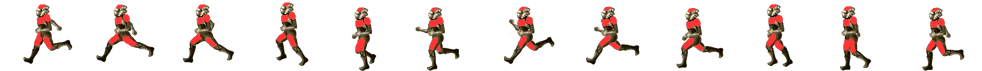
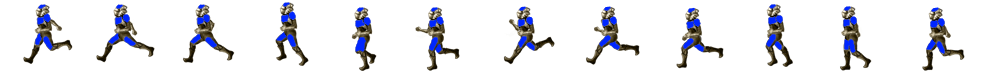
abandon

diff --git a/public/js/Sprite.js b/public/js/Sprite.js
@@ -1,9 +1,13 @@
 var Sprite = function(data){
-	// data = {imgL,imgW, nameL,nameW, startx, starty, width, height, animation, fps}
+	// data = {imgL,imgW, nameL,nameW,team, startx, starty, width, height, animation, fps}
+	if(data.team == 0){
+		data.team ="";
+	}
+	this.team = data.team;
 	this.imgL = new Image();
-	this.imgL.src =  data.imgL;
+	this.imgL.src =  data.imgL+data.team+".png";
 	this.imgW = new Image();
-	this.imgW.src = data.imgW;
+	this.imgW.src = data.imgW+data.team+".png";
 	this.direc;
 	this.name = data.name;
 	this.startX = data.x || 0;
@@ -17,9 +21,11 @@ var Sprite = function(data){
 	this.lastChangeTransiTime = 0;
 }
 
-Sprite.prototype.draw = function(ctx, x, y,precX,precY, width, height){
-	//console.log(x + " "+y+" "+precX+" "+precY);
-	
+Sprite.prototype.draw = function(ctx, x, y,precX,precY,team, width, height){
+	//console.log(this.team + " " + team);
+	if(team != this.team){
+		this.changeTeam(team);
+	}
 		if(Date.now() > this.lastChangeTransiTime + 1000/this.fps){
 			//changement de transition
 			this.index++;
@@ -61,14 +67,11 @@ Sprite.prototype.draw = function(ctx, x, y,precX,precY, width, height){
 
 }
 
-Sprite.prototype.changeImgL = function(img){
-	var image = new Image();
-	image.src = img;
-	this.imgL = image;
-}
-
-Sprite.prototype.changeImgW = function(img){
-	var image = new Image();
-	image.src = img;
-	this.imgW = image;
+Sprite.prototype.changeTeam = function(team){
+	this.imgL.src = this.imgL.src.replace(".png",team+".png");
+	this.imgW.src = this.imgW.src.replace(".png",team+".png");
+	this.team = team;
+	if(this.team == 2){
+		this.direc = "L";
+	}
 }

diff --git a/server.js b/server.js
@@ -1,6 +1,6 @@
-var app = require('express')();
-var server = require('http').Server(app);
-var io = require('socket.io')(server);
+var app = require('express')();
+var http = require('http').Server(app);
+var io = require('socket.io')(http);
 var uuid = require('node-uuid');
 var fs = require('fs');
 
@@ -15,8 +15,11 @@ eval(fs.readFileSync('./public/js/Maths.js')+'');
 eval(fs.readFileSync('./public/js/Spell.js')+'');
 eval(fs.readFileSync('./public/js/Sprite.js')+'');
 
+<<<<<<< HEAD
 server.listen(80);
 
+=======
+>>>>>>> parent of a496acf... maj port server
 app.get('/',function(req, res){
 	res.sendFile(__dirname + '/public/index.html');
 });
@@ -26,7 +29,7 @@ app.get( '/*' , function( req, res, next ) {
 	res.sendFile( __dirname + '/' + file );
 });
 
-
+http.listen(1321, function(){});
 
 var isServer = true;
 var fps = 40;

diff --git a/public/js/Player.js b/public/js/Player.js
@@ -34,12 +34,16 @@ var Player = function(json){
 		}
 	};
 
-
+	var t;
+	if(this.team==0){
+		t ="1";
+	}
 	var sp = {
-		imgL: "public/img/run2L"+this.team+".png",
-		imgW: "public/img/run2W"+this.team+".png",
-		nameL: "run2L"+this.team+".png",
-		nameW: "run2W"+this.team+".png",
+		imgL: "public/img/run2L",
+		imgW: "public/img/run2W",
+		nameL: "run2L",
+		nameW: "run2W",
+		team:this.team,
 		x: 0,
 		y: 0,
 		w: 82,
@@ -136,8 +140,3 @@ Player.prototype.getSnapshotPlayer = function(){
 	};
 }
 
-Player.prototype.changeTeam = function(team){
-	console.log("pouet"+team);
-	sprites.changeImgL("public/img/run2L"+this.team+".png");
-	sprites.changeImgW("public/img/run2W"+this.team+".png");
-}

diff --git a/public/js/Display.js b/public/js/Display.js
@@ -95,7 +95,7 @@ Display.prototype.draw = function(){
 		this.ctx.beginPath();
 		this.ctx.arc(players[i].x,players[i].y,players[i].radius,0,2*Math.PI);
 		this.ctx.fill();*/
-		players[i].sprites.draw(this.ctx,players[i].x,players[i].y,players[i].preX,players[i].preY);
+		//players[i].sprites.draw(this.ctx,players[i].x,players[i].y,players[i].preX,players[i].preY,players[i].team);
 		this.ctx.fillStyle = "white";
 		if(players[i].id == client.pID){
 			this.ctx.fillStyle = "yellow";

diff --git a/public/js/Room.js b/public/js/Room.js
@@ -137,6 +137,7 @@ Room.prototype.addPlayer = function(player){
 	this.players.push(player);
 	player.x = this.map.playerSpawn[player.team].x;
 	player.y = this.map.playerSpawn[player.team].y;
+	//player.changeTeam(player.team);
 	if(isServer){
 		this.haveToStart();
 	}

diff --git a/public/js/Client.js b/public/js/Client.js
@@ -46,7 +46,6 @@ Client.prototype.snapshot = function(data){
 	}else{
 		this.room.ball = null;
 	}
-
 	this.room.currentTime = data.currentTime;
 	this.display.timer(this.room.startTime, this.room.totalTime, data.currentTime);
 }

diff --git a/public/js/serverUtils.js b/public/js/serverUtils.js
@@ -122,7 +122,6 @@ Utils.onLeaveRoom = function(data, socket){
 }
 
 Utils.onCreateRoom = function(data, socket){
-	console.log("la");
 	var p = game.getPlayerBySocket(socket.id);
 	if(!p){return;}
 	if(p.room != null){
